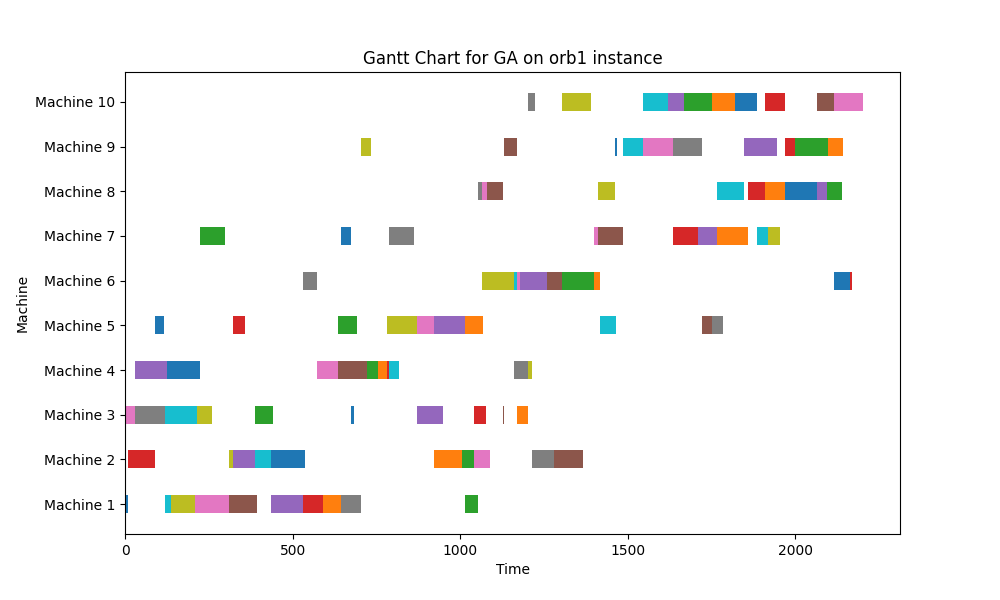
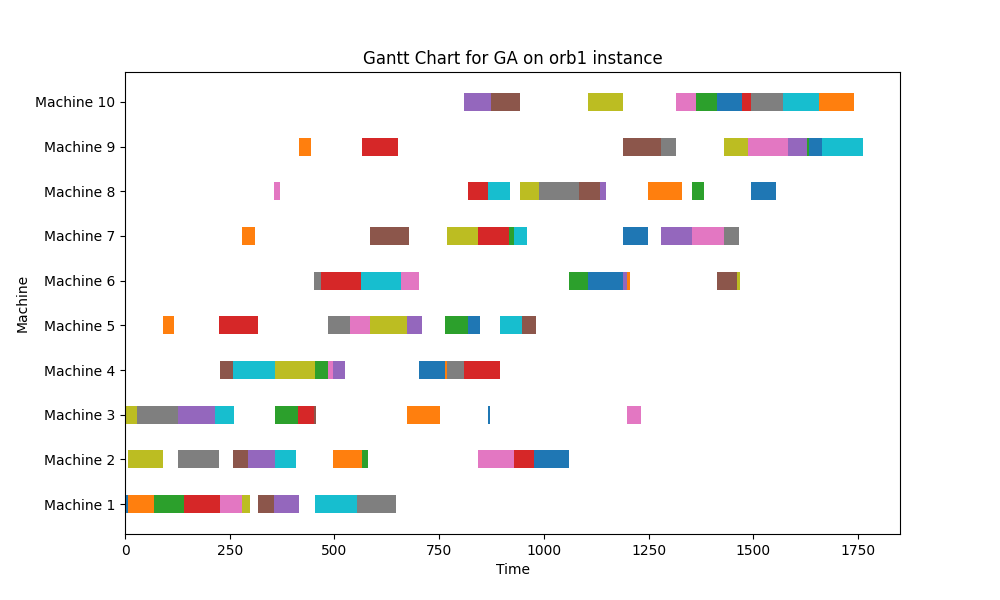
tabusearch

diff --git a/genetic_algorithm.py b/genetic_algorithm.py
@@ -31,44 +31,18 @@ def read_file(filename):
     return int(j), int(m), p_t, m_seq
 
 def compute_makespan(chromosome, p_t, m_seq):
-    n_jobs, n_ops = p_t.shape
-    op_count = np.zeros(n_jobs, dtype=int)
-    j_time = np.zeros(n_jobs)
-    machine_schedules = [[] for _ in range(n_ops)]  # 每台機台的已排程區段 (start, end)
-
-    def find_earliest_insert(machine_id, job_ready, duration):
-        schedule = machine_schedules[machine_id]
-        if not schedule:
-            return job_ready  # 無任何任務，直接插入
-
-        # 檢查每個空檔區間
-        last_end = 0
-        for start, end in schedule:
-            if job_ready > end:
-                last_end = end
-                continue
-            if job_ready <= start and start - max(job_ready, last_end) >= duration:
-                return max(job_ready, last_end)
-            last_end = end
-        return max(job_ready, last_end)
-
+    op_count = np.zeros(p_t.shape[0], dtype = np.int32)
+    j_time = np.zeros(p_t.shape[0])
+    m_time = np.zeros(p_t.shape[1])
     for j in chromosome:
-        op_idx = op_count[j]
-        machine_id = m_seq[j, op_idx]
-        duration = p_t[j, op_idx]
-        job_ready = j_time[j]
-
-        # 找出最早可以插入的時間（允許插空檔）
-        start_time = find_earliest_insert(machine_id, job_ready, duration)
-        end_time = start_time + duration
-
-        # 更新排程狀態
-        machine_schedules[machine_id].append((start_time, end_time))
-        machine_schedules[machine_id].sort()  # 保持時間排序
-        j_time[j] = end_time
+        completion_t = max(j_time[j], m_time[m_seq[j,op_count[j]]]) + p_t[j,op_count[j]]
+        j_time[j] = completion_t
+        m_time[m_seq[j,op_count[j]]] = completion_t
         op_count[j] += 1
 
-    return max(j_time)
+    makespan = max(j_time)
+    
+    return makespan
             
 def generate_init_pop(population_size, j, m):
     population_list = np.zeros((population_size, int(j*m)), dtype = np.int32)
@@ -120,8 +94,8 @@ def mutation(childlist, mutation_rate, num_mutation_jobs, p_t, m_seq):
         random_values = np.random.rand(2)
         if random_values[0] <= mutation_rate:
             mutated = chromosome.copy()
-            if random_values[1] < 0.5:
-                # permutation-based mutation
+            # permutation-based mutation
+            if random_values[1] <= 0.1:
                 mutationpoints = np.random.choice(len(chromosome), num_mutation_jobs, replace=False)
                 all_permutations = list(permutations(mutationpoints))
 
@@ -136,23 +110,15 @@ def mutation(childlist, mutation_rate, num_mutation_jobs, p_t, m_seq):
                     if makespan < min_makespan:
                         min_makespan = makespan
                         best_chromosome = new_chrom
-
-                mutated = best_chromosome
-
-            elif random_values[1] < 0.7:
-                # inversion mutation
-                i, j = sorted(np.random.choice(len(chromosome), 2, replace=False))
-                mutated[i:j+1] = mutated[i:j+1][::-1]
-
+                        mutated = best_chromosome
             else:
-                # job shuffle mutation
-                mutationpoints = np.random.choice(len(chromosome), num_mutation_jobs, replace=False)
-                shuffled_points = np.random.permutation(mutationpoints)
-                chrom_copy = mutated.copy()
+                mutationpoints = np.random.choice(len(chromosome), int(p_t.shape[0]*p_t.shape[1]*0.05), replace=False)
+                origin = mutationpoints.copy()
+                new_chrom = mutated.copy()
+                np.random.shuffle(mutationpoints)
                 for i in range(len(mutationpoints)):
-                    mutated[mutationpoints[i]] = chrom_copy[shuffled_points[i]]
+                    mutated[mutationpoints[i]] = new_chrom[origin[i]]
 
-            # 更新 childlist 中的個體
             childlist[idx] = mutated
 
     # Compute makespans
@@ -289,6 +255,10 @@ def tabu_search_ns1996(chromosome, p_t, m_seq, max_iter=100, tabu_tenure=7):
 
     return best, best_makespan
 
+def compute_diversity(population):
+    unique = np.unique(population, axis=0)
+    return len(unique) / len(population)
+
 def intensify_top10_with_tabu(population_list, p_t, m_seq, tabu_iter=100, tabu_tenure=7):
     """
     對前 10% makespan 最佳的染色體進行 Tabu Search 強化，
@@ -390,29 +360,34 @@ def draw_gantt_chart(chromosome, p_t, m_seq, title):
     plt.savefig("GanttPlot/"+title)
 
 if __name__ == "__main__":
-    df = pd.read_excel("./Data/lower_bounds.xlsx", sheet_name="orb")
+    problem = "la"
+    start = 26
+    end = 31
+    df = pd.read_excel("./Data/lower_bounds.xlsx", sheet_name = problem)
     time_list = []
     ratio_list = []
     outDf = pd.DataFrame()
-    for index in range(1,11):
-        instance_name = "orb0"+str(index)
-        if(index >= 10):instance_name = "orb"+str(index)
+    for index in range(start,end):
+        instance_name = problem+"0"+str(index)
+        if(index >= 10):instance_name = problem+str(index)
         j, m, p_t, m_seq = read_file(instance_name)
-        population_size = 400
+        population_size = 100
         population_list = generate_init_pop(population_size, j ,m)
         crossover_rate = 0.95
-        mutation_rate = 0.15
+        mutation_base_rate = 0.15
+        scale = 0.3
         max_mutatio_rate = 0.4
         num_iteration = 200
         min_makespan_record = []
         avg_makespan_record = []
         min_makespan = 9999999
-        best_maksapn_not_changed = 0
         begint = time.time()
 
         for i in tqdm(range(num_iteration)):
             parentlist, childlist = job_order_crossover(population_list, j, crossover_rate)
-            childlist = mutation(childlist, mutation_rate, 3, p_t, m_seq)
+            diversity = compute_diversity(population_list)
+            mutation_rate = mutation_base_rate + (1 - diversity) * scale
+            childlist = mutation(childlist, mutation_rate, int(j*m*0.025) , p_t, m_seq)
             population_list = np.concatenate((parentlist, childlist), axis=0)
             makespan_list = np.zeros(len(population_list))
             for k in range(len(population_list)):
@@ -421,35 +396,31 @@ if __name__ == "__main__":
                     min_m = makespan_list[k]
                     min_makespan = makespan_list[k]
                     min_c = population_list[k]
-                    best_maksapn_not_changed = 0
-                else:
-                    best_maksapn_not_changed += 1
-   
+
             population_list = binary_selection(population_list, makespan_list)
             population_list, min_ts_makespan, min_ts_chromosome = intensify_top10_with_tabu(population_list, p_t, m_seq)
             if min_ts_makespan < min_makespan:
                 min_makespan = min_ts_makespan
                 min_c = min_ts_chromosome
 
-            mutation_rate = min(mutation_rate * (1+0.1*best_maksapn_not_changed/num_iteration),max_mutatio_rate)
             min_makespan_record.append(min_makespan)
             avg_makespan_record.append(np.average(makespan_list))
 
-        if index == 1:    
+        if index == start:    
             plt.plot(avg_makespan_record)
             plt.plot(min_makespan_record)
             plt.savefig("orb"+str(index))
         time_consume = time.time() - begint
-        ratio = (min_makespan - df["lower bound"][index-1])/df["lower bound"][index-1]
+        ratio = (min_makespan - df["lower bound"][index-1])/df["lower bound"][index - 1]
         time_list.append(time_consume)
         ratio_list.append(ratio)
-        print(min_makespan, " ", df["lower bound"][index-1])
+        print(min_makespan, " ", df["lower bound"][index- 1])
         draw_gantt_chart(min_c, p_t, m_seq, "Gantt Chart for GA on orb" + str(index)+ " instance")
         row_input = pd.DataFrame([[min_makespan, df["lower bound"][index-1], time_consume]], columns = ["GA","Optimal","time(sec)"])
         outDf = pd.concat([outDf, row_input], ignore_index=True)
 
-    outDf.to_csv("Result.csv")
-    draw_bar_plot("Result.csv", ["orb"+str(i+1) for i in range(1, 11)])
+    outDf.to_csv("Result.csv", index = False)
+    draw_bar_plot("Result.csv", ["la"+str(i+1) for i in range(start, end)])
 
     
     

diff --git a/test.py b/test.py
@@ -1,62 +1,44 @@
-from collections import defaultdict
+import pandas as pd
+import numpy as np
+import copy
+import math
+import time
+from tqdm import tqdm
+import seaborn as sns
+import matplotlib.pyplot as plt
+from itertools import permutations
+import random
 
-def permissible_left_shift(job_sequence, job_operations):
-    """
-    Generate an active schedule and corresponding active chromosome.
-    
-    Parameters:
-    - job_sequence: List of integers representing the job sequence (chromosome).
-    - job_operations: Dictionary where keys are job IDs and values are lists of tuples 
-                      (machine_id, processing_time) for each operation of the job.
 
-    Returns:
-    - active_chromosome: List of integers representing the updated job sequence (active chromosome).
-    - active_schedule: List of tuples (job, operation_index, start_time, end_time, machine_id).
-    """
-    # Initialize machine availability and job progress
-    machine_availability = defaultdict(int)  # Machine -> Next available time
-    job_progress = defaultdict(int)         # Job -> Next operation index
-    active_schedule = []                    # List of scheduled operations
-    active_chromosome = []                  # Reordered job sequence
+def draw_bar_plot(filename, listx):
+    df = pd.read_csv(filename)
+    # Data for the bar plot
 
-    for job in job_sequence:
-        # Get the current operation of the job
-        op_index = job_progress[job]
-        machine_id, proc_time = job_operations[job][op_index]
-        
-        # Determine start time: max of machine availability and job's precedence constraints
-        start_time = max(machine_availability[machine_id], 
-                         active_schedule[-1][3] if active_schedule and active_schedule[-1][0] == job else 0)
-        end_time = start_time + proc_time
-        
-        # Schedule the operation
-        active_schedule.append((job, op_index + 1, start_time, end_time, machine_id))
-        active_chromosome.append(job)  # Add the job to the reordered chromosome
-        
-        # Update machine availability and job progress
-        machine_availability[machine_id] = end_time
-        job_progress[job] += 1
-    
-    return active_chromosome, active_schedule
+    # Set bar width and adjust positions for grouped bars
+    width = 0.25
+    listx1 = [x - (width / 2) for x in range(len(listx))]  # Shift left
+    listx2 = [x + (width / 2) for x in range(len(listx))]  # Shift right
 
-# Example Input
-job_operations = {
-    1: [(1, 3), (2, 1), (3, 2)],  # Job 1: (Machine 1 -> 3), (Machine 2 -> 1), (Machine 3 -> 2)
-    2: [(3, 1), (1, 5), (2, 3)],  # Job 2: (Machine 3 -> 1), (Machine 1 -> 5), (Machine 2 -> 3)
-    3: [(2, 3), (3, 2), (1, 3)]   # Job 3: (Machine 2 -> 3), (Machine 3 -> 2), (Machine 1 -> 3)
-}
+    # Y-axis data
+    listy1 = df["GA"]
+    listy2 = df["Optimal"]
 
-job_sequence = [2, 3, 1, 1, 2, 2, 3, 1, 3]
+    plt.bar(listx1, listy1, width, label="GA")
+    plt.bar(listx2, listy2, width, label="Opt")
 
-# Run the scheduling algorithm
-active_chromosome, active_schedule = permissible_left_shift(job_sequence, job_operations)
+    # Set x-ticks and labels
+    plt.xticks(range(len(listx)), labels=listx)
 
-# Display the active chromosome
-print("Active Chromosome:")
-print(active_chromosome)
+    # Add legend, title, and axis labels
+    plt.legend()
+    plt.title("Makespan Comparison on OR-Library Instances")
+    plt.ylabel("Makesapn")
+    plt.xlabel("15*10 OR Library Instances")
 
-# Display the active schedule
-print("\nActive Schedule:")
-print("(Job, Operation, Start Time, End Time, Machine)")
-for operation in active_schedule:
-    print(operation)
+    # Show the plot
+    plt.savefig("Makespan Comparison_on OR-Library Instances Bar Chart")
+    plt.show()
+
+
+
+draw_bar_plot("Result.csv", ["la"+str(i+1) for i in range(25, 30)])
